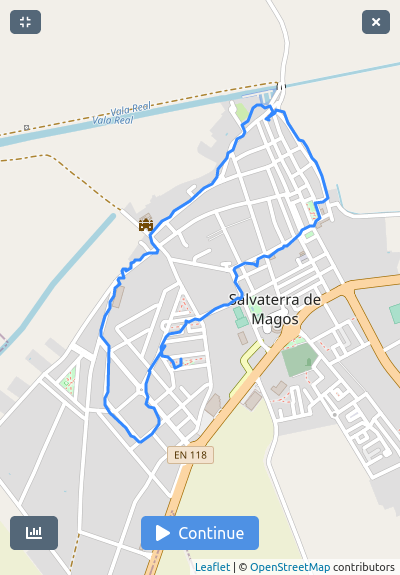
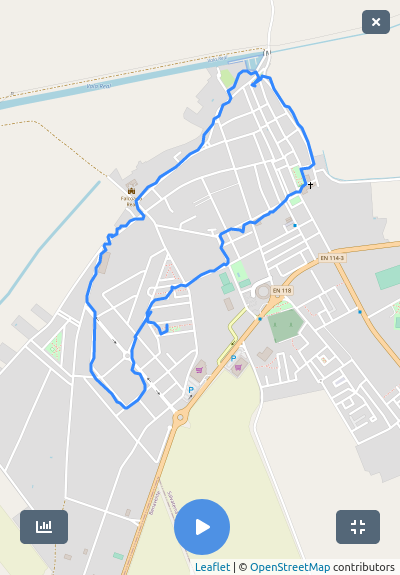
Added updated screenshots to track page

diff --git a/frontend/src/app/track/track.component.html b/frontend/src/app/track/track.component.html
@@ -37,11 +37,23 @@
         <div class="siimple-content siimple-content--large ">
             <div class="siimple-grid">
                 <div class="siimple-grid-row">
-                    <div class="siimple-grid-col siimple-grid-col--6 siimple-grid-col--sm-12 hero-image-container siimple--display-sm-none">
-                        <picture>
+                    <div class="siimple-grid-col siimple-grid-col--6 siimple-grid-col--sm-12 hero-image-container siimple--display-sm-none"
+                    >
+                        <picture [style.display]="selectedImageIndex == 0 ? 'initial' : 'none'" >
                             <source type="image/webp" class=" limit-to-max with-box-shadow" srcset="../../assets/images/track-cardio-training.webp" >
                             <img class=" limit-to-max with-box-shadow" src="../../assets/images/track-cardio-training.png" alt="Map with route traced">
                         </picture>
+                        <picture [style.display]="selectedImageIndex == 1 ? 'initial' : 'none'" >
+                            <source type="image/webp" class=" limit-to-max with-box-shadow" srcset="../../assets/images/track-cardio-training-stats.webp" >
+                            <img class=" limit-to-max with-box-shadow" src="../../assets/images/track-cardio-training-stats.png"  alt="Workout stats">
+                        </picture>
+
+                        <div class="dot-container" >
+                            <span class="dot" [class.active]="selectedImageIndex == 0" 
+                                (click)="selectImage(0)"></span>
+                            <span class="dot" [class.active]="selectedImageIndex == 1" 
+                                (click)="selectImage(1)"></span>
+                        </div>
                     </div>
                     <div class="siimple-grid-col siimple-grid-col--6 siimple-grid-col--sm-12 hero-description-container">
                         <h2 class="siimple-h2 hero-header  siimple--mt-0" translate>
@@ -51,11 +63,23 @@
                             Bring our mobile app with you on your next run. We'll record your route and give you statistics on your distance, speed and calories burned.
                         </p>
                     </div>
-                    <div class="siimple-grid-col siimple-grid-col--6 siimple-grid-col--sm-12 hero-image-container phones-only">
-                        <picture>
+                    <div class="siimple-grid-col siimple-grid-col--6 siimple-grid-col--sm-12 hero-image-container phones-only"
+                    >
+                        <picture [style.display]="selectedImageIndex == 0 ? 'initial' : 'none'" >
                             <source type="image/webp" class=" limit-to-max with-box-shadow" srcset="../../assets/images/track-cardio-training.webp" >
-                            <img class=" limit-to-max with-box-shadow" src="../../assets/images/track-cardio-training.png"  alt="Map with route traced">
+                            <img class=" limit-to-max with-box-shadow" src="../../assets/images/track-cardio-training.png" alt="Map with route traced">
                         </picture>
+                        <picture [style.display]="selectedImageIndex == 1 ? 'initial' : 'none'" >
+                            <source type="image/webp" class=" limit-to-max with-box-shadow" srcset="../../assets/images/track-cardio-training-stats.webp" >
+                            <img class=" limit-to-max with-box-shadow" src="../../assets/images/track-cardio-training-stats.png"  alt="Workout stats">
+                        </picture>
+
+                        <div class="dot-container" >
+                            <span class="dot" [class.active]="selectedImageIndex == 0" 
+                                (click)="selectImage(0)"></span>
+                            <span class="dot" [class.active]="selectedImageIndex == 1" 
+                                (click)="selectImage(1)"></span>
+                        </div>
                     </div>
                 </div>
             </div>

diff --git a/frontend/src/app/users/workout-detail-edit/workout-detail-edit.component.ts b/frontend/src/app/users/workout-detail-edit/workout-detail-edit.component.ts
@@ -582,10 +582,14 @@ export class WorkoutDetailEditComponent implements OnInit, OnDestroy, AfterViewI
     let newGroup = new WorkoutGroup();
 
     if (this.workout.plan_session && this.workout.groups.length > 0) {
-      newGroup.name = "Additional exercises";
+      this.translateService.get("Additional exercises").subscribe(res => {
+        newGroup.name = res;
+      });
     }
     else {
-      newGroup.name = "Exercises";
+      this.translateService.get("Exercises").subscribe(res => {
+        newGroup.name = res;
+      });
     }
 
     this.workout.groups.push(newGroup);

diff --git a/frontend/src/app/users/workout-set-edit/workout-set-edit.component.html b/frontend/src/app/users/workout-set-edit/workout-set-edit.component.html
@@ -202,10 +202,10 @@
             </button>
             <button class="siimple-btn siimple-btn--primary siimple--float-right" type="button"
                 (click)="showCloningModal()">
-                <fa-icon [icon]="faClone" class="siimple--mr-1"></fa-icon>
-                <span translate>
+                <fa-icon [icon]="faClone" ></fa-icon>
+                <!-- <span translate>
                     Copy
-                </span>
+                </span> -->
             </button>
         </div>
     </div>

diff --git a/frontend/src/app/users/post-detail-card/post-detail-card.component.css b/frontend/src/app/users/post-detail-card/post-detail-card.component.css
@@ -90,29 +90,6 @@
   right: 0;
 }
 
-.dot-container {
-  margin-top: 10px;
-  margin-bottom: 10px;
-  display: flex;
-  justify-content: center;
-}
-
-.dot {
-  cursor: pointer;
-  height: 10px;
-  width: 10px;
-  margin-left: 4px;
-  margin-right: 4px;
-  background-color: #bbb;
-  border-radius: 50%;
-  display: inline-block;
-  transition: background-color 0.6s ease;
-}
-
-.active, .dot:hover {
-  background-color: #717171;
-}
-
 .post-buttons-container {
     display: flex;
 }

diff --git a/frontend/src/styles.css b/frontend/src/styles.css
@@ -491,3 +491,26 @@ ul {
 .centered-text {
   text-align: center;
 }
+
+.dot-container {
+  margin-top: 10px;
+  margin-bottom: 10px;
+  display: flex;
+  justify-content: center;
+}
+
+.dot {
+  cursor: pointer;
+  height: 10px;
+  width: 10px;
+  margin-left: 4px;
+  margin-right: 4px;
+  background-color: #bbb;
+  border-radius: 50%;
+  display: inline-block;
+  transition: background-color 0.6s ease;
+}
+
+.active, .dot:hover {
+  background-color: #717171;
+}

diff --git a/frontend/src/app/demo-navigation/demo-navigation.component.html b/frontend/src/app/demo-navigation/demo-navigation.component.html
@@ -1,7 +1,7 @@
 <div class="demo-navigation-container">
     <a class="demo-navigation-item demo-navigation-item-back siimple-link" [routerLink]="previousUrl" [fragment]="previousFragment">
         <fa-icon size="2x" [icon]="arrowLeft" class="siimple--mr-2"></fa-icon>
-        <span class="demo-navigation-item-text">
+        <span class="demo-navigation-item-text demo-navigation-item-text-back">
             {{previousText}}
         </span>
     </a>

diff --git a/frontend/src/app/track/track.component.ts b/frontend/src/app/track/track.component.ts
@@ -7,9 +7,14 @@ import { Component, OnInit } from '@angular/core';
 })
 export class TrackComponent implements OnInit {
 
+  selectedImageIndex = 0;
+
   constructor() { }
 
   ngOnInit(): void {
   }
 
+  selectImage(index: number) {
+    this.selectedImageIndex = index;
+  }
 }

diff --git a/frontend/src/app/demo-navigation/demo-navigation.component.css b/frontend/src/app/demo-navigation/demo-navigation.component.css
@@ -10,6 +10,12 @@
     padding: 0;
 }
 
+@media only screen and (max-width: 400px) {
+    .demo-navigation-item-text-back {
+        display: none;
+    }
+}
+
 .demo-navigation-item {
     display: flex;
     align-items: center;

diff --git a/frontend/src/app/language-selector/language-selector.component.css b/frontend/src/app/language-selector/language-selector.component.css
@@ -8,7 +8,8 @@
 }
 
 .flag {
-    max-height: 24px;
+    width: 32px;
+    height: 24px;
     margin-right: 10px;
 }
 
